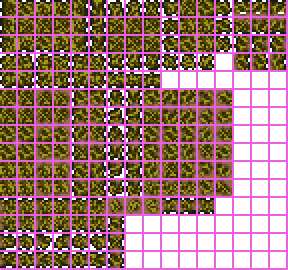
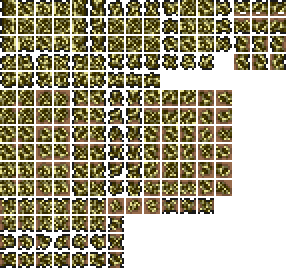
more corroded compat and shit idk

diff --git a/Content/NPCs/Other/SulfurGoldfish.cs b/Content/NPCs/Other/SulfurGoldfish.cs
@@ -16,11 +16,11 @@ using Xenon.Content.Items.Placeable.Banner;
 
 namespace Xenon.Content.NPCs.Other
 {
-    public class SulfurBunny : ModNPC
+    public class SulfurGoldfish : ModNPC
     {
         public override void SetStaticDefaults()
         {
-            Main.npcFrameCount[Type] = Main.npcFrameCount[NPCID.CorruptBunny];
+            Main.npcFrameCount[Type] = Main.npcFrameCount[NPCID.CorruptGoldfish];
 
             NPCID.Sets.NPCBestiaryDrawModifiers value = new NPCID.Sets.NPCBestiaryDrawModifiers()
             {
@@ -31,29 +31,29 @@ namespace Xenon.Content.NPCs.Other
 
         public override void SetDefaults()
         {
-            NPC.width = 32;
-            NPC.height = 44;
-            NPC.damage = 19;
-            NPC.defense = 6;
-            NPC.lifeMax = 80;
+            NPC.width = 24;
+            NPC.height = 22;
+            NPC.damage = 30;
+            NPC.defense = 7;
+            NPC.lifeMax = 105;
             NPC.HitSound = SoundID.NPCHit1;
             NPC.DeathSound = SoundID.NPCDeath1;
-            NPC.value = 200;
+            NPC.value = 500;
             NPC.knockBackResist = 1f;
-            NPC.aiStyle = 3; 
-            
-            AIType = NPCID.CorruptBunny;
-            AnimationType = NPCID.CorruptBunny;
-			//Banner = NPC.type;
-			//BannerItem = ModContent.ItemType<HauntedArmorBanner>();
-		}
+            NPC.aiStyle = 16;
+
+            AIType = NPCID.CorruptGoldfish;
+            AnimationType = NPCID.CorruptGoldfish;
+            //Banner = NPC.type;
+            //BannerItem = ModContent.ItemType<HauntedArmorBanner>();
+        }
 
         public override void SetBestiary(BestiaryDatabase database, BestiaryEntry bestiaryEntry)
         {
 
             bestiaryEntry.Info.AddRange([
                 BestiaryDatabaseNPCsPopulator.CommonTags.SpawnConditions.Events.BloodMoon,
-                new FlavorTextBestiaryInfoElement(Language.GetTextValue("Mods.Xenon.Bestiary.SulfurBunny")),
+                new FlavorTextBestiaryInfoElement(Language.GetTextValue("Mods.Xenon.Bestiary.SulfurGoldfish")),
             ]);
         }
 
@@ -89,10 +89,6 @@ namespace Xenon.Content.NPCs.Other
                 gore = Gore.NewGore(NPC.GetSource_FromThis(), new Vector2(NPC.position.X, NPC.position.Y + NPC.height - 20f), NPC.velocity, 99, NPC.scale);
                 Main.gore[gore].velocity *= 0.3f;
             }
-        }
-         public override void ModifyNPCLoot(NPCLoot npcLoot)
-        {
-            npcLoot.Add(ItemDropRule.Common(ItemID.BunnyHood, 113, 1, 1));
         }
     }
 }

diff --git a/ModSupport/AltLib.cs b/ModSupport/AltLib.cs
@@ -9,6 +9,7 @@ using Xenon.Content.Tiles.Natural.Corrosion;
 using Xenon.Content.Items.Placeable.Tile.Natural.Seed;
 using Xenon.Content.Walls.NaturalWalls.Corrosion;
 using Xenon.Content.NPCs.Other;
+using Xenon.Content.Tiles.BuildingTiles.Stones;
 
 namespace Xenon.ModSupport;
 
@@ -57,11 +58,14 @@ internal class CorrosionAltBiome : AltBiome
         BiomeOreItem = ModContent.ItemType<Content.Items.Placeable.Tile.Natural.OresAndGems.IngestaneOre>();
 
         AltarTile = ModContent.TileType<GastricAltar>();
+        BiomeOreBrick = ModContent.TileType<IngestaneBrick>();
 
         BloodBunny = ModContent.NPCType<SulfurBunny>();
+        BloodPenguin = ModContent.NPCType<SulfurPenguin>();
+        BloodGoldfish = ModContent.NPCType<SulfurGoldfish>();
 
-        /*BiomeOreBrick = ModContent.TileType<Tiles.BacciliteBrick>();
-        ArrowType = ModContent.ItemType<Items.Ammo.IckyArrow>();
+
+        /*ArrowType = ModContent.ItemType<Items.Ammo.IckyArrow>();
        
 
         BiomeChestItem = ModContent.ItemType<VirulentScythe>();
@@ -71,9 +75,6 @@ internal class CorrosionAltBiome : AltBiome
 
         MimicType = ModContent.NPCType<CorrosionMimic>();
 
-
-        //BloodPenguin = ModContent.NPCType<ContaminatedPenguin>();
-        //BloodGoldfish = ModContent.NPCType<ContaminatedGoldfish>();
         */
         AddWallConversions<CorrosionLumpWallUnsafe>(
             WallID.RocksUnsafe3

diff --git a/Content/NPCs/Other/SulfurPenguin.cs b/Content/NPCs/Other/SulfurPenguin.cs
@@ -16,11 +16,11 @@ using Xenon.Content.Items.Placeable.Banner;
 
 namespace Xenon.Content.NPCs.Other
 {
-    public class SulfurBunny : ModNPC
+    public class SulfurPenguin : ModNPC
     {
         public override void SetStaticDefaults()
         {
-            Main.npcFrameCount[Type] = Main.npcFrameCount[NPCID.CorruptBunny];
+            Main.npcFrameCount[Type] = Main.npcFrameCount[NPCID.CorruptPenguin];
 
             NPCID.Sets.NPCBestiaryDrawModifiers value = new NPCID.Sets.NPCBestiaryDrawModifiers()
             {
@@ -42,8 +42,8 @@ namespace Xenon.Content.NPCs.Other
             NPC.knockBackResist = 1f;
             NPC.aiStyle = 3; 
             
-            AIType = NPCID.CorruptBunny;
-            AnimationType = NPCID.CorruptBunny;
+            AIType = NPCID.CorruptPenguin;
+            AnimationType = NPCID.CorruptPenguin;
 			//Banner = NPC.type;
 			//BannerItem = ModContent.ItemType<HauntedArmorBanner>();
 		}
@@ -92,7 +92,9 @@ namespace Xenon.Content.NPCs.Other
         }
          public override void ModifyNPCLoot(NPCLoot npcLoot)
         {
-            npcLoot.Add(ItemDropRule.Common(ItemID.BunnyHood, 113, 1, 1));
+            npcLoot.Add(ItemDropRule.Common(ItemID.PedguinHat, 670, 1, 1));
+            npcLoot.Add(ItemDropRule.Common(ItemID.PedguinShirt, 670, 1, 1));
+            npcLoot.Add(ItemDropRule.Common(ItemID.PedguinPants, 670, 1, 1));
         }
     }
 }

diff --git a/Content/Items/Placeable/Tile/BuildingTiles/Stone/IngestaneBrickBlock.cs b/Content/Items/Placeable/Tile/BuildingTiles/Stone/IngestaneBrickBlock.cs
@@ -1,0 +1,40 @@
+using Terraria.ID;
+using Terraria.ModLoader;
+using Xenon.Content.Items.Placeable.Tile.Natural.OresAndGems;
+using Xenon.Content.Items.Placeable.Tile.Natural.Stone;
+using Xenon.Content.Tiles.BuildingTiles.Stones;
+
+namespace Xenon.Content.Items.Placeable.Tile.BuildingTiles.Stone;
+
+public class IngestaneBrickBlock : ModItem
+{
+    public override void SetStaticDefaults()
+    {
+        Item.ResearchUnlockCount = 100;
+    }
+    public override void ModifyResearchSorting(ref ContentSamples.CreativeHelper.ItemGroup itemGroup)
+    {
+        itemGroup = ContentSamples.CreativeHelper.ItemGroup.Blocks;
+    }
+    public override void SetDefaults()
+    {
+        Item.autoReuse = true;
+        Item.consumable = true;
+        Item.createTile = ModContent.TileType<IngestaneBrick>();
+        Item.width = 16;
+        Item.useTurn = true;
+        Item.useTime = 10;
+        Item.useStyle = ItemUseStyleID.Swing;
+        Item.maxStack = 9999;
+        Item.useAnimation = 15;
+        Item.height = 16;
+    }
+	public override void AddRecipes()
+	{
+        CreateRecipe()
+            .AddIngredient(ModContent.ItemType<IngestaneOre>())
+            .AddIngredient(ModContent.ItemType<GutstoneBlock>(), 5)
+            .AddTile(TileID.Furnaces)
+            .Register();
+	}
+}

diff --git a/Content/Tiles/BuildingTiles/Stones/IngestaneBrick.cs b/Content/Tiles/BuildingTiles/Stones/IngestaneBrick.cs
@@ -1,0 +1,22 @@
+using Microsoft.Xna.Framework;
+using Xenon.Content.Dusts;
+using Terraria;
+using Terraria.ID;
+using Terraria.ModLoader;
+
+namespace Xenon.Content.Tiles.BuildingTiles.Stones;
+
+public class IngestaneBrick : ModTile
+{
+    public override void SetStaticDefaults()
+    {
+        AddMapEntry(new Color(137, 145, 128));
+        Main.tileSolid[Type] = true;
+        Main.tileBlockLight[Type] = true;
+        Main.tileMergeDirt[Type] = true;
+        Main.tileBrick[Type] = true;
+        DustType = ModContent.DustType<CorrosionDust>();
+		HitSound = SoundID.Tink;
+		TileID.Sets.GeneralPlacementTiles[Type] = false;
+	}
+}
